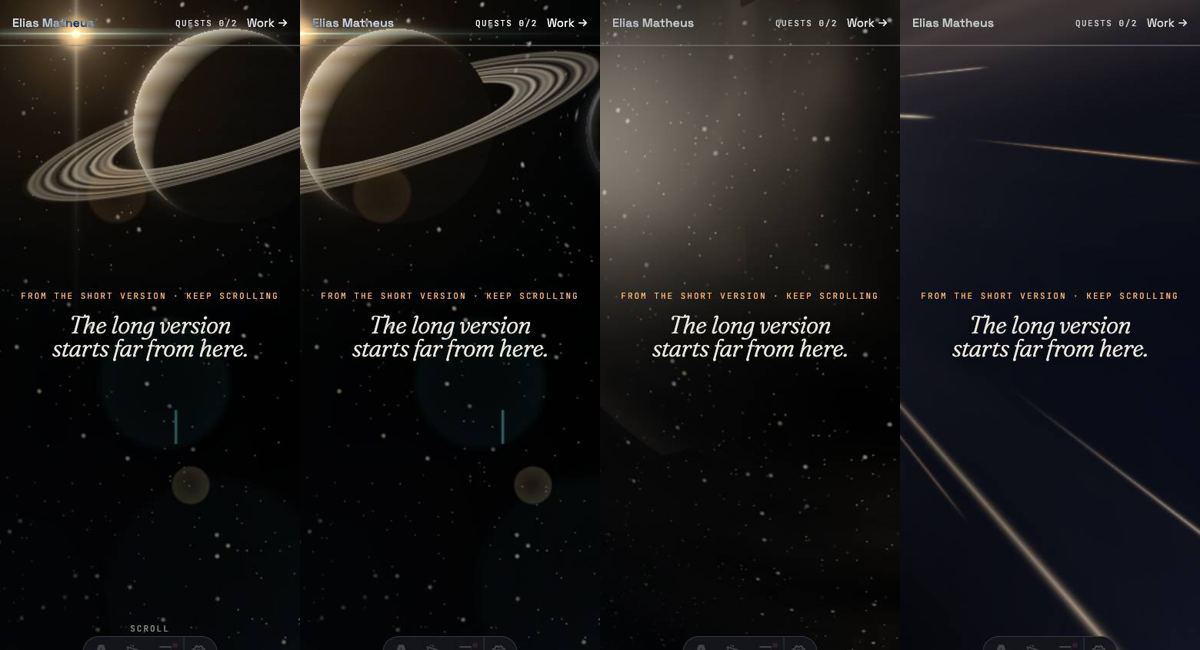
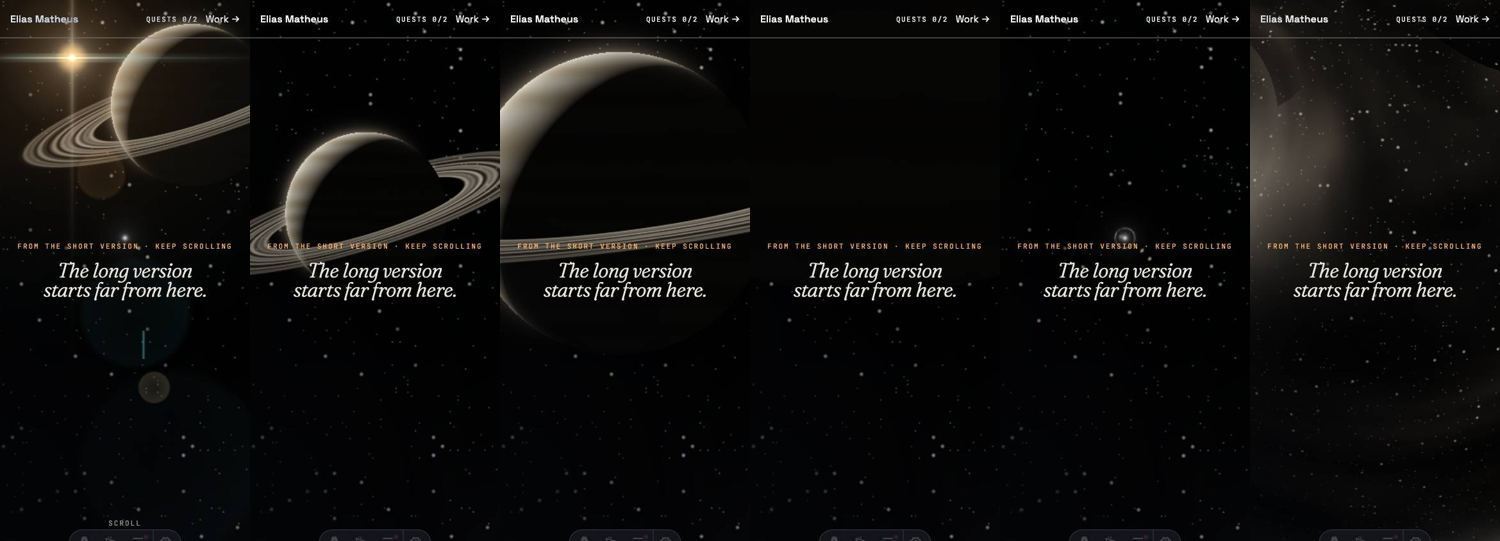
Horizon: pan to the planet, then fly under its rings
The pan now goes on until the planet sits in the middle. Then the camera zooms in,
the rings level out and the planet rises out of the frame as the flight passes under
them; the star hides behind the planet while it is covered. Past the planet, a tiny
bright point above the title grows into the wormhole and settles in the middle.

diff --git a/src/scenes/horizon/controller.ts b/src/scenes/horizon/controller.ts
@@ -21,30 +21,48 @@ type Uniform = (typeof UNIFORMS)[number];
 
 /** Where things sit in the departure, in screen units (fractions of the height). */
 interface Layout {
-  planet: { x: number; y: number; r: number };
-  sun: { x: number; y: number };
+  planet: { x: number; y: number; r: number; tilt: number; squash: number };
+  sun: { x: number; y: number; seen: number };
   worm: { x: number; y: number; r: number };
   tunnel: { x: number; y: number };
 }
 
+const mixTo = (a: number, b: number, t: number): number => a + (b - a) * t;
+
 /**
- * The departure's layout for a frame. The pan carries the planet across the view (the star,
- * farther away, moves less, so the flare changes); the pointer adds a little parallax. The
- * wormhole comes in from the side, so only part of it is in view until the camera is close.
+ * The departure's layout for a frame. The pan carries the planet to the middle of the view
+ * (the star, farther away, moves less, so the flare changes). Then the camera zooms in, the
+ * rings level out and the planet rises out of the frame: the flight passes under the rings.
+ * The star hides behind the planet while it covers it. Past the planet, a tiny point dead
+ * ahead grows into the wormhole. The pointer adds a little parallax.
  */
 function departureLayout(f: HorizonFrame, aspect: number, look: { x: number; y: number }): Layout {
   const phone = aspect < 0.8;
-  // Above and to the right of the title (above it on a phone), drifting left with the pan.
-  const r = phone ? 0.15 : 0.24;
-  const px = (phone ? 0.14 : 0.62) - f.pan * (phone ? 0.28 : 0.5) - look.x * 0.03;
-  const py = (phone ? 0.3 : 0.2) + look.y * 0.02;
+  const r0 = phone ? 0.15 : 0.24;
+  const startX = phone ? 0.14 : 0.62;
+  const startY = phone ? 0.3 : 0.2;
+  const midY = phone ? 0.1 : 0.04;
+  const z = f.zoom;
+  const r = r0 * (1 + z * z * 7);
+  const x = mixTo(startX, 0, f.pan) - look.x * 0.03 * (1 - z);
+  const y = mixTo(startY, midY, f.pan) + z * z * z * r * 1.7 + look.y * 0.02 * (1 - z);
+  const sun = {
+    x: mixTo(startX, 0, f.pan) - r0 * 1.55 + f.pan * 0.12 - look.x * 0.01,
+    y: mixTo(startY, midY, f.pan) + r0 * 0.62,
+  };
+  const covered = Math.hypot(sun.x - x, sun.y - y) / r;
   const near = Math.pow(f.approach, 2.4);
-  const wx = phone ? 0.32 : 0.95 * Math.min(1, aspect / 1.6);
-  const wy = phone ? 0.3 : 0.12;
   return {
-    planet: { x: px, y: py, r },
-    sun: { x: px - r * 1.55 + f.pan * 0.12 - look.x * 0.01, y: py + r * 0.62 },
-    worm: { x: wx * (1 - near), y: wy * (1 - near), r: 0.11 + near * 1.8 },
+    planet: {
+      x,
+      y,
+      r,
+      tilt: mixTo(-0.3, 0, Math.min(1, z / 0.6)),
+      squash: mixTo(0.2, 0.045, z),
+    },
+    sun: { ...sun, seen: Math.min(1, Math.max(0, (covered - 0.98) / 0.06)) },
+    // Born above the title, it settles in the middle as it grows to fill the view.
+    worm: { x: 0, y: (phone ? 0.26 : 0.2) * (1 - near), r: 0.004 + near * 1.9 },
     // Inside, we are near the right wall looking at the far end, up and to the left; the calm
     // drifts us towards the middle.
     tunnel: { x: -0.3 * (1 - f.calm * 0.8), y: 0.16 * (1 - f.calm * 0.8) },
@@ -112,12 +130,16 @@ function createRenderer(canvas: HTMLCanvasElement, coarse: boolean): Renderer | 
       gl.uniform2f(u.uWormC, lay.worm.x, lay.worm.y);
       gl.uniform1f(u.uWormR, lay.worm.r);
       gl.uniform1f(u.uIn, f.inside);
-      gl.uniform1f(u.uReveal, f.reveal);
+      // Even far away the wormhole shows as a small bright point.
+      gl.uniform1f(u.uReveal, 0.4 + 0.6 * f.reveal);
       gl.uniform1f(u.uPlanet, f.planet);
       gl.uniform1f(u.uPan, f.pan);
       gl.uniform2f(u.uSatC, lay.planet.x, lay.planet.y);
       gl.uniform1f(u.uSatR, lay.planet.r);
+      gl.uniform1f(u.uRingTilt, lay.planet.tilt);
+      gl.uniform1f(u.uRingSquash, lay.planet.squash);
       gl.uniform2f(u.uSun, lay.sun.x, lay.sun.y);
+      gl.uniform1f(u.uSunSeen, lay.sun.seen);
       gl.uniform2f(u.uTunC, lay.tunnel.x, lay.tunnel.y);
       gl.uniform1f(u.uCalm, f.calm);
       gl.uniform1f(u.uStill, f.still);
@@ -247,7 +269,17 @@ const horizonScene: SceneController = ({ el, mode }) => {
     if (!renderer) return;
     // At the planet, the flare belongs to the star; the pan moves it across the lens.
     if (f.planet > 0.01) {
-      flare(fx, w / 2 + lay.sun.x * h, h / 2 - lay.sun.y * h, w, h, f.planet * 0.85, now);
+      if (lay.sun.seen > 0.01) {
+        flare(
+          fx,
+          w / 2 + lay.sun.x * h,
+          h / 2 - lay.sun.y * h,
+          w,
+          h,
+          f.planet * 0.85 * lay.sun.seen,
+          now,
+        );
+      }
       return;
     }
     const show = 1 - f.warp;

diff --git a/src/scenes/horizon/beats.ts b/src/scenes/horizon/beats.ts
@@ -7,16 +7,18 @@
  * after the departure, so its beats and framings did not have to change.
  */
 
-/** The ringed planet against the light, the camera panning. */
-export const PLANET_END = 0.11;
-/** The wormhole, revealed a little at a time, until its mouth. */
-export const MOUTH_AT = 0.2;
+/** The ringed planet against the light: the camera pans until it sits in the middle. */
+export const PAN_END = 0.08;
+/** Then it zooms in, the rings level out and we fly under them, past the planet. */
+export const PLANET_END = 0.18;
+/** A tiny point ahead grows into the wormhole, revealed a little at a time, until its mouth. */
+export const MOUTH_AT = 0.3;
 /** Inside: the tunnel seen from near its wall, shaking. */
-export const TUNNEL_END = 0.27;
+export const TUNNEL_END = 0.37;
 /** The calm: speed falls away, the center opens. */
-export const CALM_END = 0.31;
+export const CALM_END = 0.41;
 /** A still sky; then the black hole. */
-export const DEPARTURE_END = 0.36;
+export const DEPARTURE_END = 0.46;
 
 /** The black hole's own timeline (q). */
 const Q_START = 0.2;
@@ -53,8 +55,10 @@ export interface HorizonFrame extends Framing {
   warp: number;
   /** The ringed planet: 1 in view, 0 gone. */
   planet: number;
-  /** The camera's pan across the planet, 0 to 1. */
+  /** The camera's pan until the planet is in the middle, 0 to 1. */
   pan: number;
+  /** The zoom and the flight under the rings, 0 to 1. */
+  zoom: number;
   /** Approaching the wormhole, 0 far to 1 at its mouth. */
   approach: number;
   /** How much of the wormhole shows, 0 (a faint lens) to 1 (all its light). */
@@ -101,9 +105,10 @@ export function horizonFrame(p: number, aspect: number): HorizonFrame {
     sy: at('sy'),
     fov: at('fov'),
     warp: 1 - smooth(DEPARTURE_END - 0.025, DEPARTURE_END, p),
-    planet: 1 - smooth(PLANET_END - 0.03, PLANET_END + 0.01, p),
-    pan: smooth(0, PLANET_END + 0.01, p),
-    approach: smooth(PLANET_END - 0.03, MOUTH_AT, p),
+    planet: 1 - smooth(PLANET_END - 0.01, PLANET_END + 0.01, p),
+    pan: smooth(0, PAN_END, p),
+    zoom: smooth(PAN_END, PLANET_END, p),
+    approach: smooth(PLANET_END - 0.01, MOUTH_AT, p),
     reveal: smooth(PLANET_END, MOUTH_AT - 0.015, p),
     inside: smooth(MOUTH_AT - 0.012, MOUTH_AT + 0.012, p),
     turbulence:

diff --git a/src/scenes/horizon/shader.ts b/src/scenes/horizon/shader.ts
@@ -11,7 +11,7 @@ uniform vec2 uRes; uniform float uTime; uniform float uClock;
 uniform float uDist, uTilt, uYaw, uRoll, uFov, uWarp, uSteps;
 uniform vec2 uShift;
 uniform vec2 uWormC; uniform float uWormR, uIn, uReveal;
-uniform float uPlanet, uPan, uSatR, uCalm, uStill, uFlash;
+uniform float uPlanet, uPan, uSatR, uCalm, uStill, uFlash, uRingTilt, uRingSquash, uSunSeen;
 uniform vec2 uSatC, uSun, uTunC;
 
 float hash(vec3 p){ p = fract(p * 0.3183099 + 0.1); p *= 17.0; return fract(p.x * p.y * p.z * (p.x + p.y + p.z)); }
@@ -154,6 +154,9 @@ vec3 wormhole(vec2 uv){
     col += stars2(vec2(a * 9.0 + uClock * 0.3, log(r) * 3.0), 14.0) * near * 2.2 * uReveal;
     col += vec3(0.85, 0.88, 1.0) * exp(-(r - 1.0) * 14.0) * 0.06;
   }
+  // From far it is a tiny bright point dead ahead, before it is big enough to show anything.
+  float far = 1.0 - smoothstep(0.015, 0.08, R);
+  col += vec3(0.95, 0.93, 1.0) * (exp(-length(d) * 420.0) * 2.2 + exp(-length(d) * 60.0) * 0.12) * far;
   return col;
 }
 
@@ -161,9 +164,9 @@ vec3 wormhole(vec2 uv){
 // forward-scattered light, the star just past its edge.
 vec3 planet(vec2 uv, vec3 bg){
   vec2 d = (uv - uSatC) / uSatR;
-  float tilt = -0.3;
+  float tilt = uRingTilt;
   vec2 rd = mat2(cos(tilt), sin(tilt), -sin(tilt), cos(tilt)) * d;
-  float ry = rd.y / 0.2;
+  float ry = rd.y / uRingSquash;
   float rq = length(vec2(rd.x, ry));
   float ring = smoothstep(1.24, 1.3, rq) * (1.0 - smoothstep(2.15, 2.25, rq));
   ring *= 0.55 + 0.45 * sin(rq * 52.0) * sin(rq * 13.0 + 1.0);
@@ -196,7 +199,7 @@ vec3 planet(vec2 uv, vec3 bg){
   vec2 s = uv - uSun;
   float sr = length(s);
   float spikes = exp(-abs(s.x) * 260.0) * exp(-abs(s.y) * 9.0) + exp(-abs(s.y) * 260.0) * exp(-abs(s.x) * 9.0);
-  col += vec3(1.0, 0.95, 0.86) * (exp(-sr * 110.0) * 4.0 + exp(-sr * 14.0) * 0.12 + spikes * 0.5);
+  col += vec3(1.0, 0.95, 0.86) * (exp(-sr * 110.0) * 4.0 + exp(-sr * 14.0) * 0.12 + spikes * 0.5) * uSunSeen;
   return col;
 }
 
@@ -286,4 +289,7 @@ export const UNIFORMS = [
   'uSatC',
   'uSun',
   'uTunC',
+  'uRingTilt',
+  'uRingSquash',
+  'uSunSeen',
 ] as const;

diff --git a/src/scenes/horizon/beats.test.ts b/src/scenes/horizon/beats.test.ts
@@ -10,6 +10,7 @@ import {
   horizonFrame,
   instruments,
   MOUTH_AT,
+  PAN_END,
   PLANET_END,
   TUNNEL_END,
 } from './beats';
@@ -22,6 +23,9 @@ describe('the departure', () => {
     const start = horizonFrame(0, 1.6);
     expect(start.planet).toBe(1);
     expect(start.inside).toBe(0);
+    expect(horizonFrame(PAN_END, 1.6).pan).toBe(1);
+    expect(horizonFrame(PAN_END, 1.6).zoom).toBe(0);
+    expect(horizonFrame(PLANET_END, 1.6).zoom).toBe(1);
     expect(horizonFrame(PLANET_END + 0.02, 1.6).planet).toBe(0);
     expect(horizonFrame(MOUTH_AT + 0.02, 1.6).inside).toBe(1);
   });

diff --git a/src/scenes/registry.ts b/src/scenes/registry.ts
@@ -28,7 +28,7 @@ export const SCENES: readonly SceneEntry[] = [
     label: 'Horizon',
     // The departure (ringed planet, wormhole, tunnel, calm, still sky), then the black hole:
     // arrival and the fall. A long dwell so each beat gets room.
-    dwell: 8000,
+    dwell: 9500,
     x: 0,
     y: 0,
     load: () => import('./horizon/controller'),

diff --git a/docs/cenas/horizon.md b/docs/cenas/horizon.md
@@ -67,9 +67,10 @@ Prints: `docs/screens/fase-4/horizon-*.jpg`.
 
 ## Ato I, a partida (26/11/2026, ver `docs/viagem.md`)
 
-- **Linha do tempo:** a partida ocupa o começo do dwell (agora 8000 px) e o buraco negro mantém a linha do tempo dele (`q`), remapeada para depois. Saturno até 0,11; o wormhole revelado aos poucos até a boca em 0,2; o túnel até 0,27; a calmaria até 0,31; o céu parado até 0,36. Os beats e enquadramentos do buraco negro não mudaram, só a posição deles no scroll (`atQ`).
+- **Linha do tempo:** a partida ocupa o começo do dwell (agora 9500 px) e o buraco negro mantém a linha do tempo dele (`q`), remapeada para depois. Pan até o planeta ficar no centro em 0,08; zoom e voo por baixo dos anéis até 0,18; o ponto que vira wormhole, revelado aos poucos, até a boca em 0,3; o túnel até 0,37; a calmaria até 0,41; o céu parado até 0,46. Os beats e enquadramentos do buraco negro não mudaram, só a posição deles no scroll (`atQ`).
 - **Saturno contra a luz** (shader): crescente na borda iluminada, faixas, anéis com a divisão escura, iluminados por trás, a metade da frente sobre o planeta, e a estrela logo além da borda com quatro raios. O flare da tela fica preso à estrela; o pan leva o planeta para a esquerda (a estrela, mais longe, anda menos), então o flare muda. O ponteiro dá um pouco de paralaxe. No celular o planeta fica acima do texto.
-- **O wormhole revelado aos poucos:** de longe é só uma lente (as estrelas se curvam em volta); a galáxia de dentro e a borda ganham luz conforme ele chega perto. A aproximação é de lado: a esfera entra pela direita e só parte dela aparece. Perto da borda, as estrelas viram flashes finos.
+- **O voo por baixo dos anéis** (pedido do Elias depois da primeira versão): o pan continua até o planeta ficar no centro; daí a câmera dá zoom, os anéis giram até a horizontal e o planeta sobe e sai do quadro, como se passássemos por baixo dos anéis. A estrela some atrás do planeta enquanto ele a cobre e volta depois.
+- **O wormhole revelado aos poucos:** passado o planeta, um ponto minúsculo e brilhante acima do título cresce e desce para o centro. A galáxia de dentro e a borda ganham luz conforme ele chega perto. Perto da borda, as estrelas viram flashes finos.
 - **O túnel visto da borda:** o fundo fica em cima e à esquerda, a parede com o universo borrado ondula e passa, faíscas saem do fundo. A tela chacoalha e clarões cortam o túnel.
 - **A calmaria:** as faíscas desaceleram até parar, a parede escurece e o fundo se abre. **O céu parado:** estrelas finas, galáxias pequenas e uma nebulosa num canto, sem movimento. Daí o buraco negro aparece (a revelação como estrela vem no Ato II).
 - **Sem o tranco** na saída do wormhole: a virada é a calmaria, como na cena descrita.

diff --git a/docs/viagem.md b/docs/viagem.md
@@ -16,8 +16,8 @@ Tempo de leitura pensado para quem só rola, sem parar nas quests. "Work →" co
 
 | # | Momento | O que já existe | O que falta |
 | --- | --- | --- | --- |
-| 1 | **O planeta contra a luz (decidido: entra).** Um gigante gasoso com anéis, no estilo de Saturno, iluminado por trás, flare da estrela. O cursor (ou o dedo) faz o pan e o flare muda com ele. "The long version starts far from here." | O flare no cursor | Planeta com anéis em shader, contraluz, o pan |
-| 2 | **O wormhole aparece aos poucos.** Pouca luz no começo, mais informação conforme chega perto. Aproximação lateral: só uma parte da esfera no quadro, as estrelas da borda viram flashes finos. | A esfera do wormhole (galáxia dentro, borda, lente) | Revelação gradual, aproximação de lado, flashes na borda |
+| 1 | **O planeta contra a luz (decidido: entra).** Um gigante gasoso com anéis, no estilo de Saturno, iluminado por trás, flare da estrela. O scroll faz o pan até o planeta ficar no centro (o flare muda com ele); daí zoom, os anéis na horizontal e o voo por baixo deles, até passar o planeta. "The long version starts far from here." | Feito (PR da partida) | |
+| 2 | **O wormhole aparece aos poucos.** Passado o planeta, um ponto minúsculo cresce. Pouca luz no começo, mais informação conforme chega perto; as estrelas da borda viram flashes finos. | A esfera do wormhole (galáxia dentro, borda, lente) | Revelação gradual, aproximação de lado, flashes na borda |
 | 3 | **Dentro.** O cilindro corre na nossa direção, vistos de perto da borda, lente grande-angular. A parede ondula, flashes, chacoalho, alarmes. É o **ponto de não retorno** (ver decisões). | O túnel de faíscas, o tranco | Parede curva, chacoalho, alarmes, a câmera fora do centro |
 | 4 | **A calmaria.** Alarmes calam, a velocidade cai como uma curva logarítmica, o centro se abre. | A mola do scroll (`follow.ts`) | A curva de saída |
 | 5 | **O universo parado.** Antes a câmera estava fixa e o universo passava; agora a câmera se move contra um universo parado. | | Céu estático e pan |
